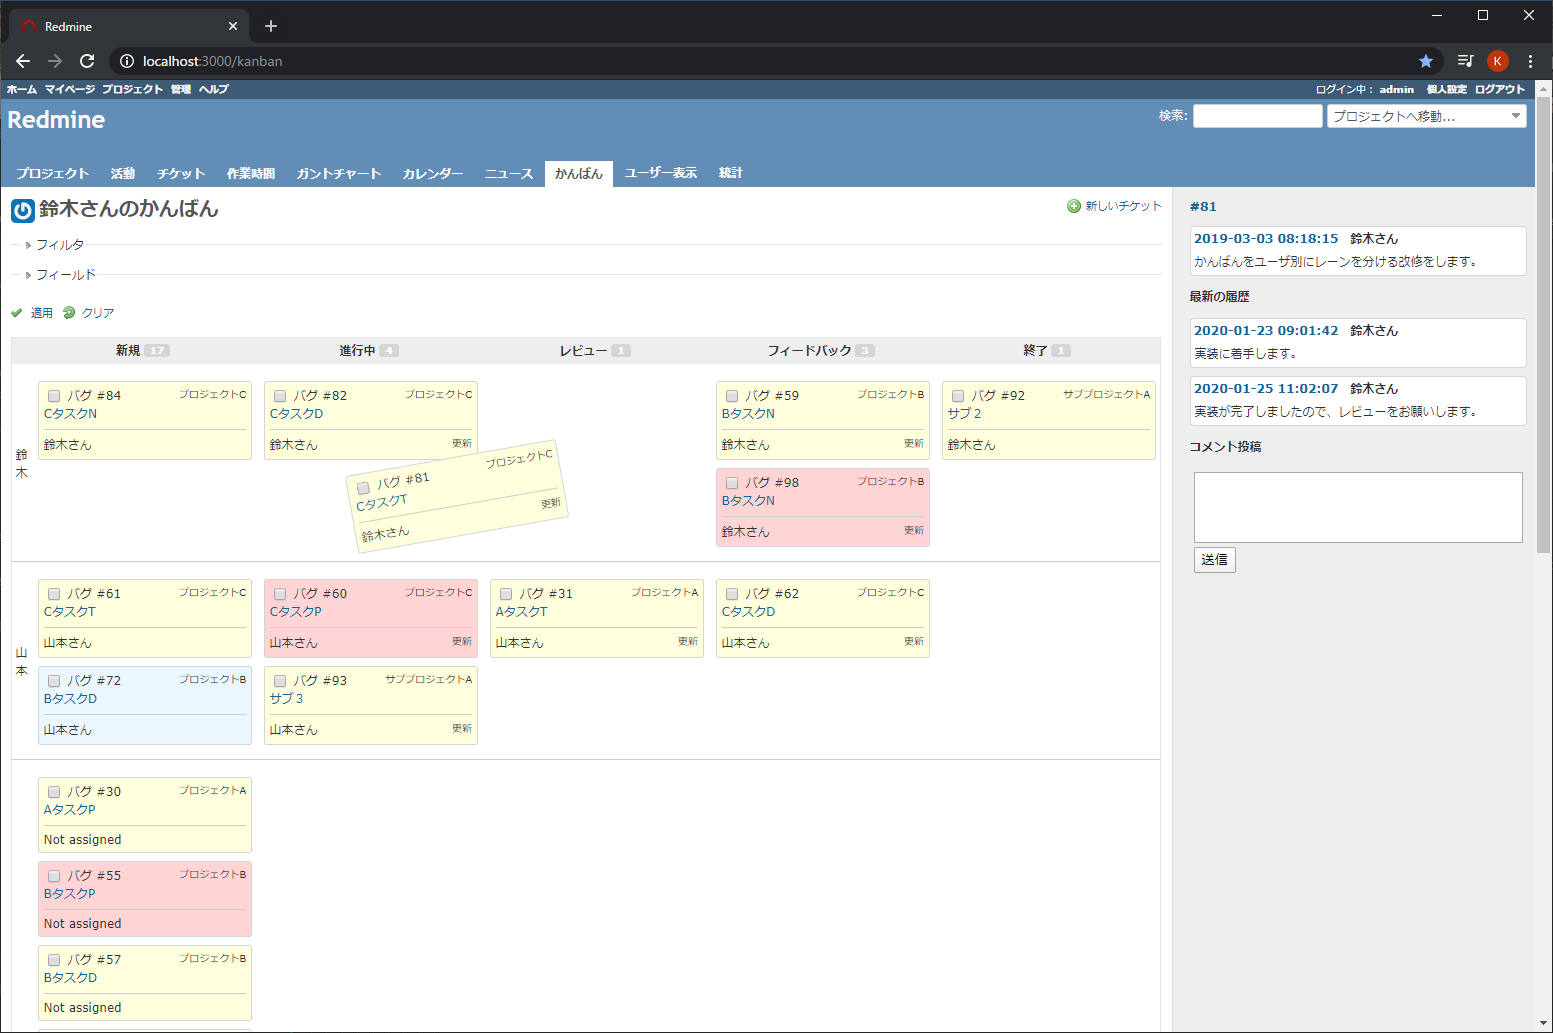
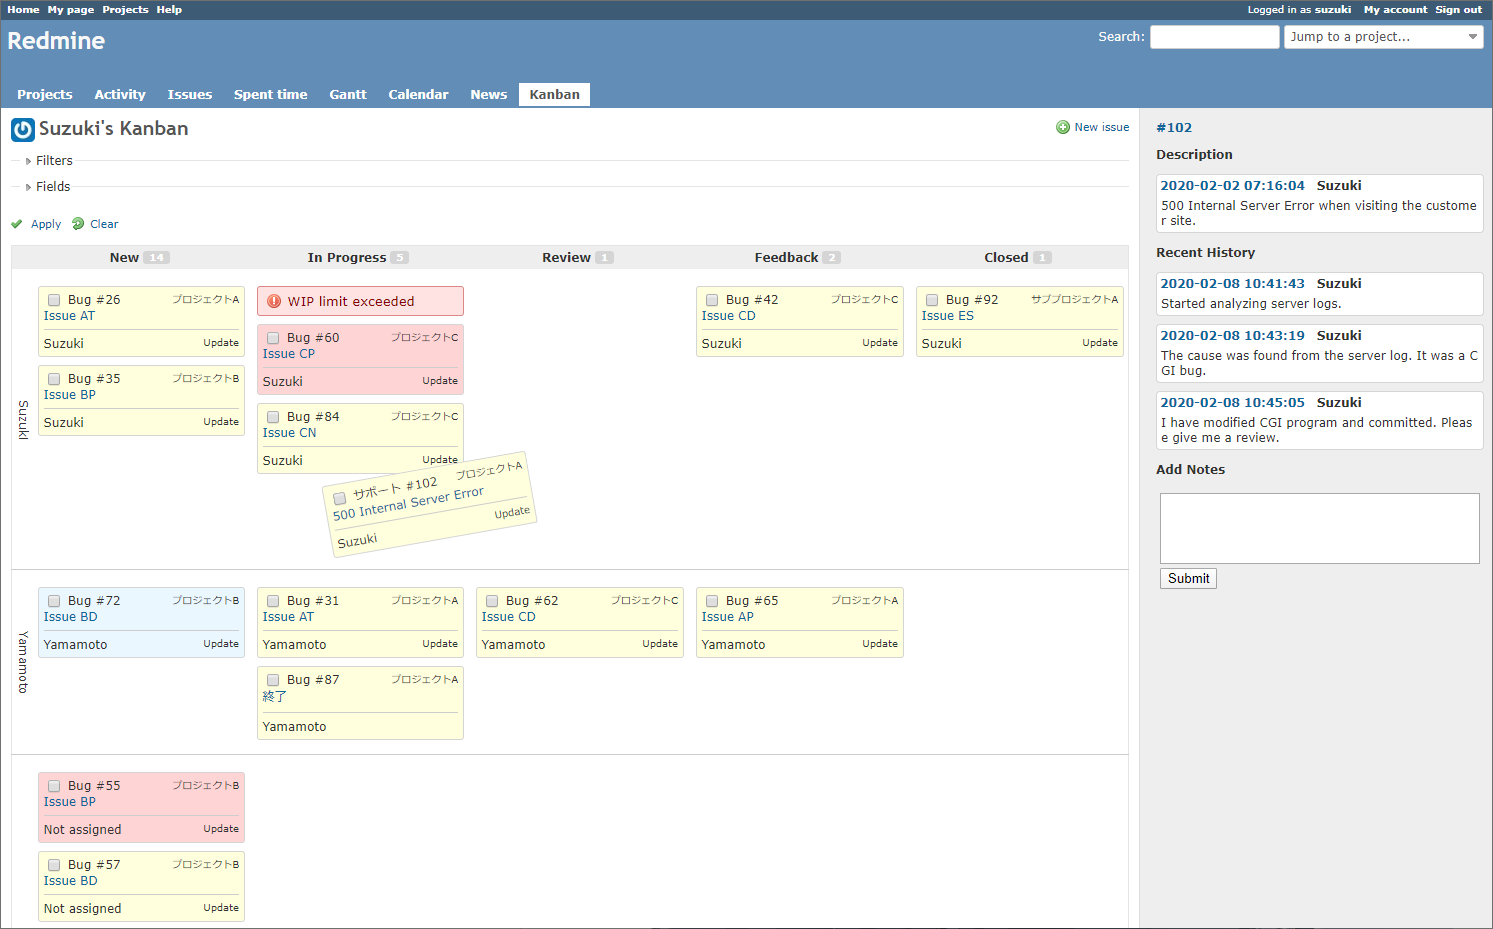
Edit README.md

diff --git a/README.md b/README.md
@@ -1,6 +1,9 @@
 # Redmine kanban plugin
 This plugin provides the Kanban board.
 
+## What's new
+* English language support.
+
 ## Features
 * Tickets can be displayed in a card form by status.
 * You can change the ticket status and assignee by dragging and dropping.
@@ -12,10 +15,10 @@ This plugin provides the Kanban board.
 ## Screenshots
 
 ### Overview
-<img src="./assets/images/kanban_board_ss.png" width="800px">
+<img src="./assets/images/kanban_board_ss.png" width="960px">
 
 ### Ticket filters
-<img src="./assets/images/filters_ss.png" width="480px">
+<img src="./assets/images/filters_ss.png" width="420px">
 
 ## Install
 
@@ -26,10 +29,23 @@ git clone https://github.com/happy-se-life/kanban.git
 
 2. Edit models/constants.rb for your environment.
 
-3. Enable modules for each project.
+3. Restart redmine.
+
+4. Enable modules for each project.
+
+## Uninstall
+
+1. Move to plugins folder.
+
+2. Remove plugins folder.
+<pre>
+rm -rf kanban
+</pre>
+
+3. Restart redmine.
 
 ## Limitation
-* Only supports Japanese.
+* Only supports English and Japanese.
 * It has only been used by small organizations before.
 
 ## License
